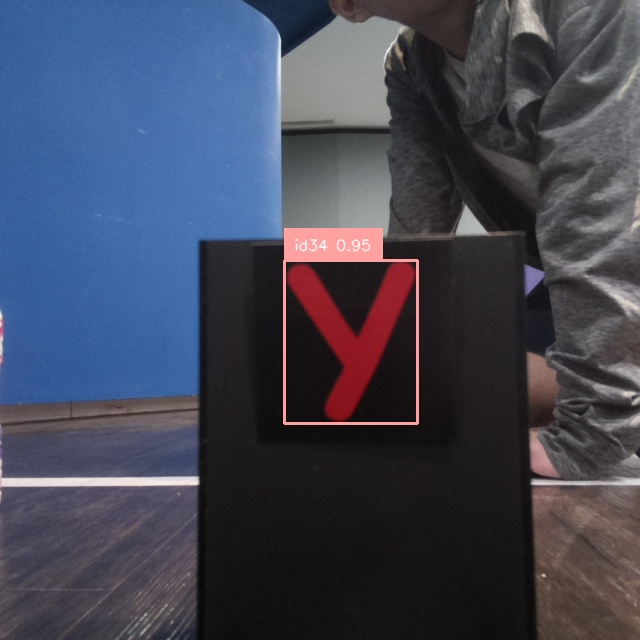
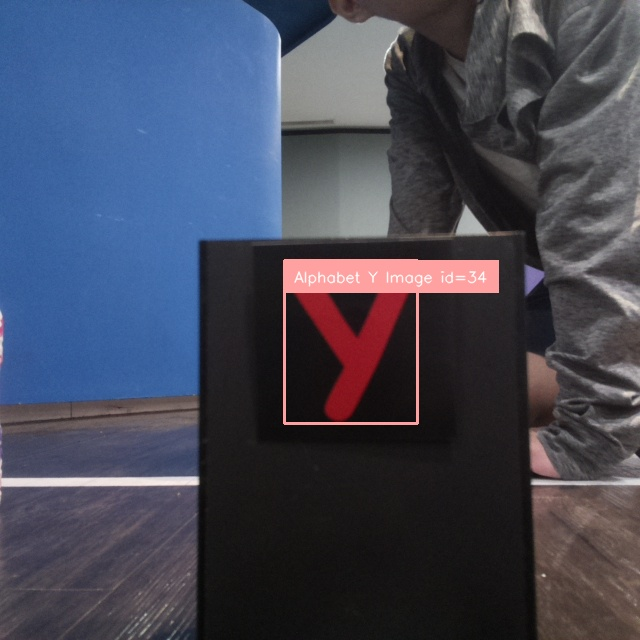
Update 240319(1) - note that the source files for SV changed too

Changed region(s): [[0.4375, 0.3438, 0.7812, 0.4688]]

diff --git a/RPI/comms.py b/RPI/comms.py
@@ -1,7 +1,7 @@
 ### IMPORTS ###
 
 # general
-from time import sleep
+from time import sleep, time
 import os, subprocess, logging, sys
 # connections related
 import bluetooth, socket, serial, requests
@@ -67,8 +67,10 @@ class AndroidBT:
             return True
         except:
             logging.error("bluetooth connection unsuccessful")
-            self.server_sock.close()
-            self.client_sock.close()
+            if self.server_sock is not None:
+                self.server_sock.close()
+            if self.client_sock is not None:
+                self.client_sock.close()
             self.server_sock = None
             self.client_sock = None
             return False
@@ -100,6 +102,8 @@ class AndroidBT:
             if msg is not None or msg.strip() != "":
                 logging.debug("recv android msg: {}".format(msg.strip().decode("utf-8")))
                 return msg.strip().decode("utf-8")
+        except KeyboardInterrupt:
+            pass
         except:
             logging.error("error receiving from android")
 
@@ -189,7 +193,8 @@ class Brain:
             # establish connections
             conn1, conn2, conn3 = False, False, False
             conn1 = self.android.connect()
-            self.android_sendq.put("CONNECTED TO RPI")
+            if conn1:
+                self.android_sendq.put("CONNECTED TO RPI")
             conn2 = self.STM.connect()
             conn3 = self.pingAPI()
             
@@ -220,6 +225,7 @@ class Brain:
             self.reconnect_android()                # waiting and test for disconnection
 
         except KeyboardInterrupt:
+            print("\r>>> MANUAL KILL PROGRAM <<<")
             self.stop()
     
     # FUNCTION - stop this code
@@ -228,11 +234,12 @@ class Brain:
         try:
             self.proc_sendAndroid.kill()
             self.proc_recvAndroid.kill()
+            self.proc_sendSTM.kill()
+            self.proc_recvSTM.kill()
+            self.proc_rpi.kill()
         except:
             pass
         self.STM.disconnect()
-        
-        sys.exit(0)
         logging.info("program exit")
 
     # FUNCTION - monitor for android connection dropped
@@ -347,21 +354,24 @@ class Brain:
     # FUNCTION - receive ack from STM (child process)
     def recvSTM(self):
         while True:
-            msg = self.STM.receive()
-            if msg is None:
-                continue
-            logging.debug("msg: {}".format(msg))
-            if msg.startswith("A") or msg.startswith("C") or msg.startswith("K"):
-                try:
-                    currentPos = self.state_queue.get()
-                    if currentPos != "KEEP":
-                        self.android_sendq.put("ROBOT,{},{},{}".format(str(20-currentPos[0]),str(currentPos[1]-1),currentPos[2]))
-                    # logging.debug(str(currentPos))
-                    sleep(2)
-                    self.movement_lock.release()
-                except Exception as e:
-                    print(e)
-                    logging.error("tried to release a released lock")
+            try:
+                msg = self.STM.receive()
+                if msg is None:
+                    continue
+                logging.debug("msg: {}".format(msg))
+                if msg.startswith("A") or msg.startswith("C") or msg.startswith("K"):
+                    try:
+                        currentPos = self.state_queue.get()
+                        if currentPos != "KEEP":
+                            self.android_sendq.put("ROBOT,{},{},{}".format(str(20-currentPos[0]),str(currentPos[1]-1),currentPos[2]))
+                        # logging.debug(str(currentPos))
+                        sleep(2)
+                        self.movement_lock.release()
+                    except Exception as e:
+                        print(e)
+                        logging.error("tried to release a released lock")
+            except KeyboardInterrupt:
+                break
 
     def robotRun(self):
         prevFL = False
@@ -380,8 +390,8 @@ class Brain:
                 self.movement_lock.acquire()
                 
                 # DEBUG
-                # logging.debug("note issue and move to by right location")
-                # sleep(3)
+                logging.debug("note issue and move to by right location")
+                sleep(2)
                 # command reading
                 ## FW and BW movements
                 logging.debug(command)
@@ -402,11 +412,11 @@ class Brain:
                 ## TURN movements
                 elif command.startswith("FL"):
                     if prevFL:
-                        self.stm_sendq.put("fa090")
+                        self.stm_sendq.put("fa085")
                         prevFL = False
                     else:
                         prevFL = True
-                        self.insertCommand(["wx005","FL00","wx003"])
+                        self.insertCommand(["wx008","FL00","wx005"])
                         self.inserting.wait()
                         self.inserting.clear()
                         self.dupStates(1,2)
@@ -415,11 +425,12 @@ class Brain:
                         self.movement_lock.release()
                 elif command.startswith("FR"):
                     if prevFR:
-                        self.stm_sendq.put("fd090")
+                        # self.stm_sendq.put("fd090")
+                        self.stm_sendq.put("fd090") # calibrated
                         prevFR = False
                     else:
                         prevFR = True
-                        self.insertCommand(["wx006","FR00","sx006"])
+                        self.insertCommand(["wx008","FR00","sx002"])
                         self.inserting.wait()
                         self.inserting.clear()
                         self.dupStates(1,2)
@@ -428,11 +439,11 @@ class Brain:
                         self.movement_lock.release()
                 elif command.startswith("BL"):
                     if prevBL:
-                        self.stm_sendq.put("ba090")
+                        self.stm_sendq.put("ba085")
                         prevBL = False
                     else:
                         prevBL = True
-                        self.insertCommand(["sx003","BL00"])
+                        self.insertCommand(["sx005","BL00"])
                         self.inserting.wait()
                         self.inserting.clear()
                         self.dupStates(1,1)
@@ -445,7 +456,7 @@ class Brain:
                         prevBR = False
                     else:
                         prevBR = True
-                        self.insertCommand(["sx004","BR00","wx002"])
+                        self.insertCommand(["sx006","BR00","sx002"])
                         self.inserting.wait()
                         self.inserting.clear()
                         self.dupStates(1,2)
@@ -461,14 +472,14 @@ class Brain:
                     logging.info("path ended")
                     sleep(5)
                     self.android_sendq.put("ROBOT END")
-                    
-                    url = f"http://{api_ip}:5000/stitch-image"
-                    response = requests.get(url)
-
+                    if obstacleCourse:
+                        self.rpi_queue.put("STITCH")
                     while True:
                         if self.android_sendq.empty() and self.stm_sendq.empty() and self.rpi_queue.empty():
                             sleep(5)
                             self.stop()
+                        else:
+                            continue
 
                 # task 2
                 elif command == "T2START":
@@ -495,6 +506,8 @@ class Brain:
 
     # FUNCTION - ask the RPI to do things (child process)
     def rpiTasks(self): 
+        timeStart = None
+        timeEnd = None
         while True:
             # get task from queue
             try:
@@ -512,10 +525,10 @@ class Brain:
                     logging.debug("taking picture")
                     
                     # DEBUG - skip taking pictures
-                    logging.debug("SKIPPING PICTURES")
+                    # logging.debug("SKIPPING PICTURES")
 
                     obsNo = int(task[2:])
-                    '''
+                    
                     # capturing image
                     with picamera.PiCamera() as camera:
                         camera.resolution = (640,640)
@@ -545,8 +558,8 @@ class Brain:
                     else:
                         logging.error("API cannot detect image")
                         self.android_sendq.put("OBS,{},{}".format(obsNo, "X"))
-                    '''
-                    self.android_sendq.put("OBS,{},{}".format(obsNo, "D"))
+                    
+                    # self.android_sendq.put("OBS,{},{}".format(obsNo, "D"))
                     # start moving again
                     self.send_pic.wait()
                     self.send_pic.clear()
@@ -554,6 +567,7 @@ class Brain:
                 # case B - get path
                 elif task.startswith("PATH"):
                     logging.debug("getting path")
+                    timeStart = time()
                     # calling API
                     obs = []
                     while not self.obs_queue.empty():
@@ -576,7 +590,12 @@ class Brain:
                     for state in states[1:]:
                         self.state_queue.put(state)
                     self.path_obtained.set()
-                
+                elif task.startswith("STITCH"):
+                    logging.debug("stitching image")
+                    timeEnd = time()
+                    logging.info("time used for run: {}".format(int(timeEnd-timeStart)))
+                    url = f"http://{api_ip}:5000/stitch-image"
+                    requests.get(url)
                 elif task.startswith("T2"):
                     if task == "T2SHORTPIC":
                         # capturing image
@@ -685,4 +704,7 @@ class Brain:
 if __name__ == "__main__":
     logging.basicConfig(level=logLevel,format="[%(levelname)s] %(funcName)s - %(message)s")
     controller = Brain()
-    controller.run()
+    try:
+        controller.run()
+    except KeyboardInterrupt:
+        pass

diff --git a/AlgoImageRecog/api/app.py b/AlgoImageRecog/api/app.py
@@ -31,7 +31,7 @@ CORS(app)
 # SETUP - image recog
 modelMode = True   # True for Yen, False for CR
 if modelMode:
-    yolo = YOLO("yen_3_a.pt", )
+    yolo = YOLO("yen_3_a.pt")
 imageNameMap = {
     "11": "Number 1",
     "12": "Number 2",
@@ -84,7 +84,8 @@ def getPath():
     if request.method == "POST" and request.is_json:
         data = request.get_json()
         path, states = generatePath(data["robotPos"], data["obs"])
-        print(states)
+        # print(states)
+        print(path)
         # path = ["BW03", "BR00", "BW04", "BL00"]
         return jsonify({"path": path, "states": states}), 200
 
@@ -123,7 +124,7 @@ def testImage():
                     detections = sv.Detections.from_ultralytics(results[0])[0]     # for drawing of box - only consider first one
                     image = cv2.imread("../images/{}.jpg".format(recvDateTime))    # actual image
                     bounding_box_annotator = sv.BoundingBoxAnnotator()
-                    label_annotator = sv.LabelAnnotator()
+                    label_annotator = sv.LabelAnnotator(text_position=sv.geometry.core.Position.TOP_LEFT_CUSTOM)
                     annotated_image = bounding_box_annotator.annotate(scene=image, detections=detections)                               # draw box
                     annotated_image = label_annotator.annotate(scene=annotated_image, detections=detections, labels=labels)             # labels on the box
                     cv2.imwrite("../images/boxed/OBS{}_id{}.jpg".format(data["obs"],id if id is not None else 'x'), annotated_image)    # save the annotated image
